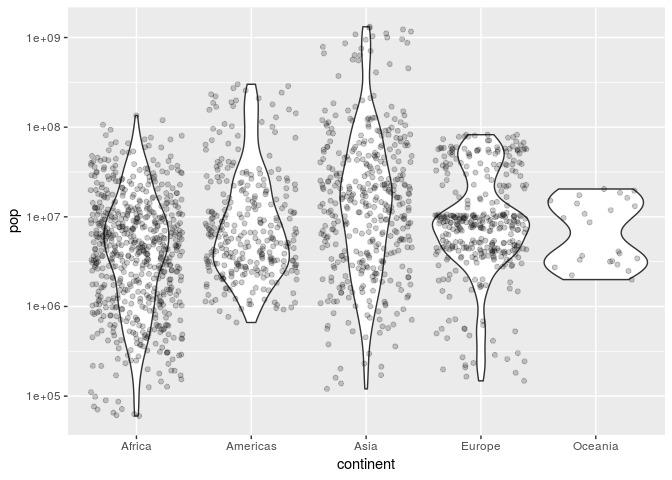
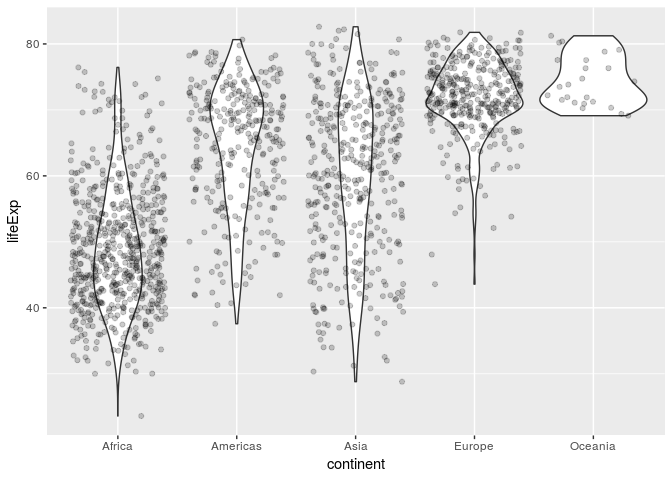
final commit

diff --git a/gapminder-explore.md b/gapminder-explore.md
@@ -13,14 +13,14 @@ library(tidyverse)
 
     ## Warning: replacing previous import by 'tibble::tibble' when loading 'broom'
 
-    ## ── Attaching packages ─────────────────────────────────────────────────────────────────────────── tidyverse 1.2.1 ──
+    ## ── Attaching packages ─────────────────────────────────────────────────────────────────────────────────────────────────────────────────────────────────────────────────────────── tidyverse 1.2.1 ──
 
     ## ✔ ggplot2 3.0.0     ✔ purrr   0.2.5
     ## ✔ tibble  1.4.2     ✔ dplyr   0.7.6
     ## ✔ tidyr   0.8.1     ✔ stringr 1.3.1
     ## ✔ readr   1.1.1     ✔ forcats 0.3.0
 
-    ## ── Conflicts ────────────────────────────────────────────────────────────────────────────── tidyverse_conflicts() ──
+    ## ── Conflicts ────────────────────────────────────────────────────────────────────────────────────────────────────────────────────────────────────────────────────────────── tidyverse_conflicts() ──
     ## ✖ dplyr::filter() masks stats::filter()
     ## ✖ dplyr::lag()    masks stats::lag()
 
@@ -131,9 +131,8 @@ ggplot(gapminder, aes(lifeExp)) + geom_density(bw = 0.01, fill = "orange") + sca
 ![](gapminder-explore_files/figure-markdown_github/unnamed-chunk-11-1.png)
 
 As expected, we have a large group of countries in the 70s for life expectancy, presumably the Western (i.e. developed) countries.
-----------------------------------------------------------------------------------------------------------------------------------
 
-A fancier plot,
+A fancier plot, illustrating the clustering of countries' life expectancy and gdp per capita by the continent.
 
 ``` r
 plot = ggplot(gapminder, aes(gdpPercap, lifeExp)) + scale_x_log10()
@@ -146,26 +145,59 @@ What values are typical? What's the spread? What's the distribution? Etc., tailo
 
 Typical values of continent are the five continents: Africa, Americas, Asia, Europe, and Oceania. Note that North, Central, and South America are all mixed into one group.
 
+As expected, typical values of the life expectancy range from 20s to 80s. A large proportion of countries range in the 70s and higher.
+
+Life expectancy distribution according to continent:
+
 ``` r
-a = ggplot(gapminder, aes(continent, pop)) + scale_y_log10()
+a = ggplot(gapminder, aes(continent, lifeExp))
 a+geom_violin()+geom_jitter(alpha=0.2)
 ```
 
 ![](gapminder-explore_files/figure-markdown_github/unnamed-chunk-13-1.png)
 
+Use of filter, select, and %&gt;%
+---------------------------------
+
+And the following is a plot of Sudan's GDP per capital and life expectancy over time.
+
 ``` r
 gapminder %>% 
-  filter(country == 'Germany') %>% 
-  ggplot(aes(gdpPercap, lifeExp)) + geom_point() + geom_line(arrow=arrow())
+  filter(country == 'Sudan') %>% 
+  select(gdpPercap, lifeExp) %>% 
+  ggplot(aes(gdpPercap, lifeExp)) + geom_point() + geom_path(arrow=arrow())
 ```
 
 ![](gapminder-explore_files/figure-markdown_github/unnamed-chunk-14-1.png)
 
+But I want to do more!
+----------------------
+
 Evaluate this code and describe the result. Presumably the analyst's intent was to get the data for Rwanda and Afghanistan. Did they succeed? Why or why not? If not, what is the correct way to do this?
 
-code: `filter(gapminder, country == c("Rwanda", "Afghanistan"))`
+code: `filter(gapminder, country == c("Rwanda", "Afghanistan"))` (Unfortunately I can't put it in an `R` chunk because then knit will have a problem with it)
 
-The problem with this code is that none of the country entires are a list containing "Rwanda" then "Afghanistan" in that order. To filter to Rwanda and Afghanistan, we use the following code:
+``` r
+filter(gapminder, country == c("Rwanda", "Afghanistan"))
+```
+
+    ## # A tibble: 12 x 6
+    ##    country     continent  year lifeExp      pop gdpPercap
+    ##    <fct>       <fct>     <int>   <dbl>    <int>     <dbl>
+    ##  1 Afghanistan Asia       1957    30.3  9240934      821.
+    ##  2 Afghanistan Asia       1967    34.0 11537966      836.
+    ##  3 Afghanistan Asia       1977    38.4 14880372      786.
+    ##  4 Afghanistan Asia       1987    40.8 13867957      852.
+    ##  5 Afghanistan Asia       1997    41.8 22227415      635.
+    ##  6 Afghanistan Asia       2007    43.8 31889923      975.
+    ##  7 Rwanda      Africa     1952    40    2534927      493.
+    ##  8 Rwanda      Africa     1962    43    3051242      597.
+    ##  9 Rwanda      Africa     1972    44.6  3992121      591.
+    ## 10 Rwanda      Africa     1982    46.2  5507565      882.
+    ## 11 Rwanda      Africa     1992    23.6  7290203      737.
+    ## 12 Rwanda      Africa     2002    43.4  7852401      786.
+
+The problem with this code is that we do not get every row in the dataset. To get it, we use the following code:
 
 ``` r
 filter(gapminder, country %in% c("Rwanda", "Afghanistan"))
@@ -185,3 +217,75 @@ filter(gapminder, country %in% c("Rwanda", "Afghanistan"))
     ##  9 Afghanistan Asia       1992    41.7 16317921      649.
     ## 10 Afghanistan Asia       1997    41.8 22227415      635.
     ## # ... with 14 more rows
+
+Additional Exercises:
+---------------------
+
+**Exercise 1**: Make a plot of `year` (x) vs `lifeExp` (y), with points coloured by continent. Then, to that same plot, fit a straight regression line to each continent, without the error bars. If you can, try piping the data frame into the `ggplot` function.
+
+``` r
+gapminder %>% 
+  ggplot(aes(year, lifeExp, color=continent)) + 
+  geom_point() + 
+  geom_smooth(method='lm', se = FALSE)
+```
+
+![](gapminder-explore_files/figure-markdown_github/unnamed-chunk-17-1.png)
+
+**Exercise 2**: Repeat Exercise 1, but switch the *regression line* and *geom\_point* layers. How is this plot different from that of Exercise 1?
+
+``` r
+gapminder %>% 
+  ggplot(aes(year, lifeExp, color=continent)) + 
+  geom_smooth(method='lm', se = FALSE) +
+  geom_point()
+```
+
+![](gapminder-explore_files/figure-markdown_github/unnamed-chunk-18-1.png)
+
+**Exercise 3**: Omit the `geom_point` layer from either of the above two plots (it doesn't matter which). Does the line still show up, even though the data aren't shown? Why or why not?
+
+``` r
+gapminder %>% 
+  ggplot(aes(year, lifeExp, color=continent)) +
+  geom_smooth(method='lm', se = FALSE)
+```
+
+![](gapminder-explore_files/figure-markdown_github/unnamed-chunk-19-1.png)
+
+**Exercise 4**: Make a plot of `year` (x) vs `lifeExp` (y), facetted by continent. Then, fit a smoother through the data for each continent, without the error bars. Choose a span that you feel is appropriate.
+
+``` r
+gapminder %>% 
+  ggplot(aes(year, lifeExp)) + 
+  facet_wrap(~ continent) + 
+  geom_point() + 
+  geom_smooth(se = F)
+```
+
+    ## `geom_smooth()` using method = 'loess' and formula 'y ~ x'
+
+![](gapminder-explore_files/figure-markdown_github/unnamed-chunk-20-1.png)
+
+**Exercise 5**: Plot the population over time (year) using lines, so that each country has its own line. Colour by `gdpPercap`. Add alpha transparency to your liking.
+
+``` r
+gapminder %>% 
+  ggplot(aes(year, pop)) + 
+  geom_line(aes(group=country, color=gdpPercap), alpha = 0.23) + 
+  scale_y_log10()
+```
+
+![](gapminder-explore_files/figure-markdown_github/unnamed-chunk-21-1.png)
+
+**Exercise 6**: Add points to the plot in Exercise 5.
+
+``` r
+gapminder %>% 
+  ggplot(aes(year, pop)) + 
+  geom_line(aes(group=country, color=gdpPercap), alpha = 0.23) + 
+  geom_point(alpha = 0.1) + 
+  scale_y_log10() 
+```
+
+![](gapminder-explore_files/figure-markdown_github/unnamed-chunk-22-1.png)
